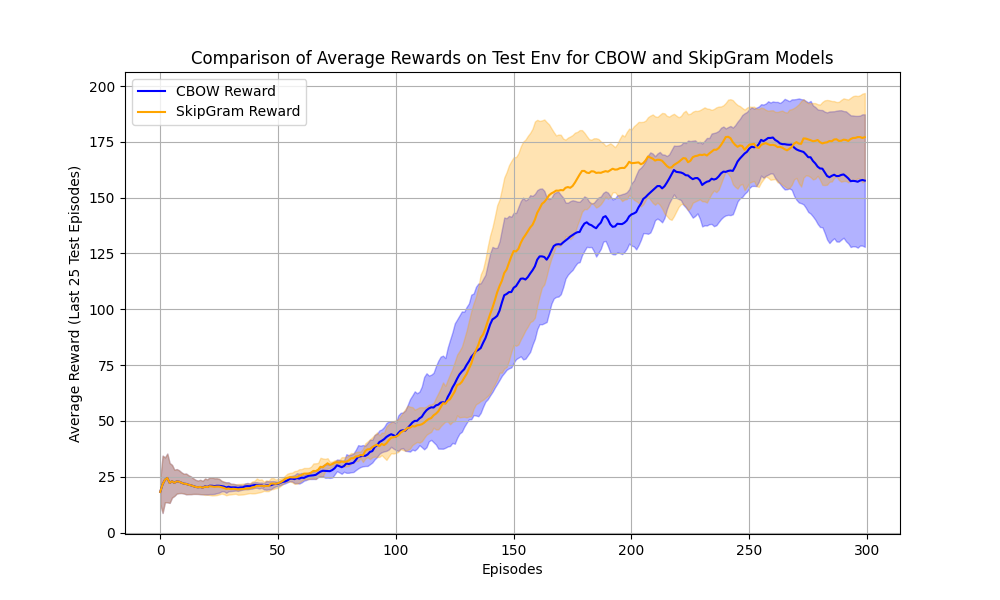
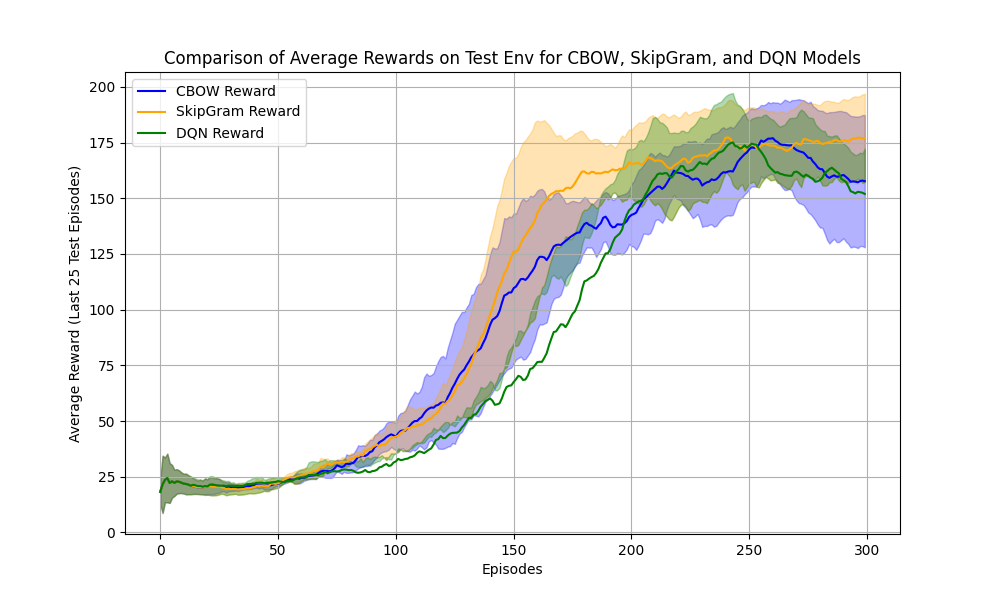
three plots

diff --git a/plot.py b/plot.py
@@ -2,11 +2,12 @@ import numpy as np
 import matplotlib.pyplot as plt
 
 # Simulate the loading of CBOW and SkipGram rewards for the example (since I cannot access files)
-reward_cbow = np.load("reward_cbow.npy")
-reward_skipgram = np.load("reward_skipgram.npy")
+reward_cbow = np.load("Results/reward_cbow.npy")
+reward_skipgram = np.load("Results/reward_skipgram.npy")
+reward_dqn = np.load("Results/reward_dqn.npy")
 
-# Function to plot two curves
-def plot_two_curves(reward_cbow, reward_skipgram):
+# Function to plot curves
+def plot_curves(reward_cbow, reward_skipgram, reward_dqn):
     plt.figure(figsize=(10, 6))
 
     # Calculate mean and std for both CBOW and SkipGram
@@ -16,6 +17,9 @@ def plot_two_curves(reward_cbow, reward_skipgram):
     mean_skipgram = np.mean(reward_skipgram, axis=0)
     std_skipgram = np.std(reward_skipgram, axis=0)
 
+    mean_dqn = np.mean(reward_dqn, axis=0)
+    std_dqn = np.std(reward_dqn, axis=0)
+
     # Plot CBOW curve
     plt.plot(range(len(mean_cbow)), mean_cbow, color='blue', label='CBOW Reward')
     plt.fill_between(range(len(mean_cbow)), np.maximum(mean_cbow - std_cbow, 0), np.minimum(mean_cbow + std_cbow, 200), color='blue', alpha=0.3)
@@ -24,15 +28,19 @@ def plot_two_curves(reward_cbow, reward_skipgram):
     plt.plot(range(len(mean_skipgram)), mean_skipgram, color='orange', label='SkipGram Reward')
     plt.fill_between(range(len(mean_skipgram)), np.maximum(mean_skipgram - std_skipgram, 0), np.minimum(mean_skipgram + std_skipgram, 200), color='orange', alpha=0.3)
 
+    # Plot DQN curve
+    plt.plot(range(len(mean_cbow)), mean_dqn, color='green', label='DQN Reward')
+    plt.fill_between(range(len(mean_dqn)), np.maximum(mean_skipgram - std_skipgram, 0), np.minimum(mean_dqn + std_dqn, 200), color='green', alpha=0.3)
+
     # Add labels and title
     plt.xlabel("Episodes")  # Label for x-axis
     plt.ylabel("Average Reward (Last 25 Test Episodes)")  # Label for y-axis
-    plt.title("Comparison of Average Rewards on Test Env for CBOW and SkipGram Models")  # Title of the plot
+    plt.title("Comparison of Average Rewards on Test Env for CBOW, SkipGram, and DQN Models")  # Title of the plot
     plt.legend(loc="upper left")  # Legend location
     plt.grid(True)  # Add grid for better readability
 
     # Save the plot as a PNG file
-    plt.savefig("reward_comparison.png")
+    plt.savefig("Results/reward_comparison.png")
 
 # Call the function to generate and save the plot
-plot_two_curves(reward_cbow, reward_skipgram)
+plot_curves(reward_cbow, reward_skipgram, reward_dqn)

diff --git a/DQN.py b/DQN.py
@@ -33,6 +33,8 @@ STARTING_EPSILON = 1.0  # Starting epsilon
 STEPS_MAX = 10000       # Gradually reduce epsilon over these many steps
 EPSILON_END = 0.01      # At the end, keep epsilon at this value
 
+DQN = True              # True means original DQN, no cbow or skipgram
+
 # Global variables
 EPSILON = STARTING_EPSILON
 Q = None
@@ -111,9 +113,6 @@ def update_networks(epi, buf, Q, Qt, OPT, embed_cbow):
     # Get Q(s, a) for every (s, a) in the minibatch
     qvalues = Q(S).gather(1, A.view(-1, 1)).squeeze()
 
-    # Get max_a' Qt(s', a') for every (s') in the minibatch
-    # q2values = torch.max(Qt(S2), dim = 1).values
-
     # Get Q(s', a') for every next state s'
     q2values_all = Qt(S2)  # This gives Q-values for all actions for each state s'
 
@@ -122,7 +121,11 @@ def update_networks(epi, buf, Q, Qt, OPT, embed_cbow):
     weights = embed_cbow.compute_distance(S2)  # shape [batch_size, n_actions]
 
     # Use the computed weights to get the weighted combination of Q-values
-    q2values = torch.sum(weights * q2values_all, dim=1)
+    if (DQN == False):
+        q2values = torch.sum(weights * q2values_all, dim=1)
+    else:
+        # Get max_a' Qt(s', a') for every (s') in the minibatch
+        q2values = torch.max(Qt(S2), dim = 1).values
 
     # If done, 
     #   y = r(s, a) + GAMMA * max_a' Q(s', a') * (0)
@@ -252,7 +255,7 @@ def plot_arrays(vars, color, label):
     plt.fill_between(range(len(mean)), np.maximum(mean-std, 0), np.minimum(mean+std,200), color=color, alpha=0.3)
 
     # Save the vars array to .npy file
-    np.save("reward_cbow.npy", vars)
+    np.save("reward_dqn.npy", vars)
     
 if __name__ == "__main__":
     # Make a flag
